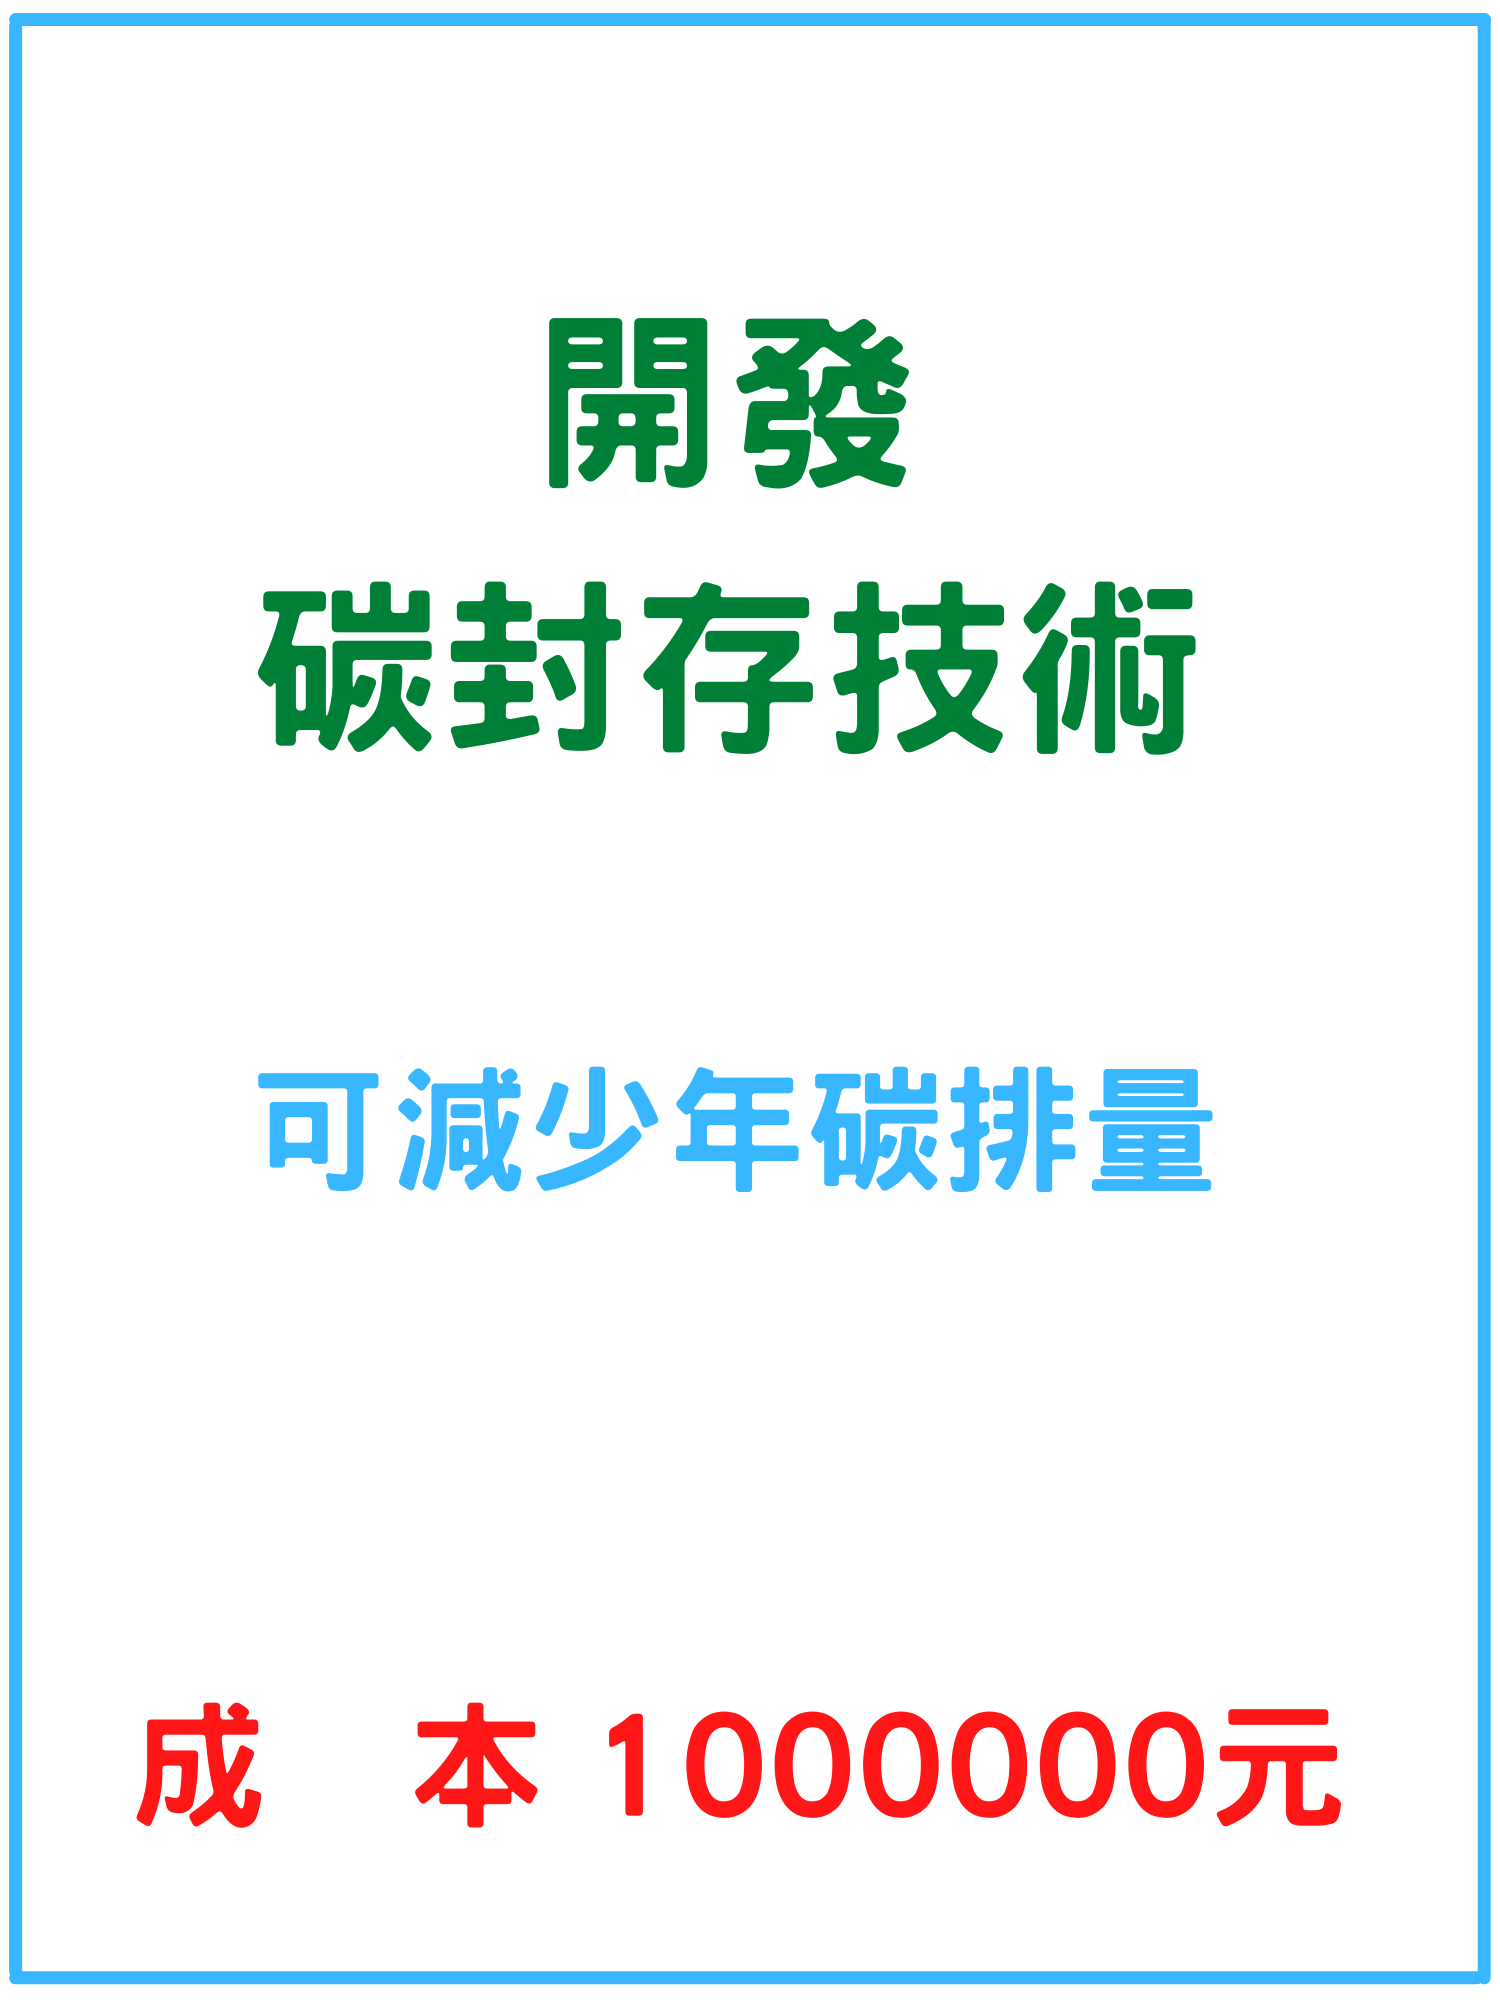
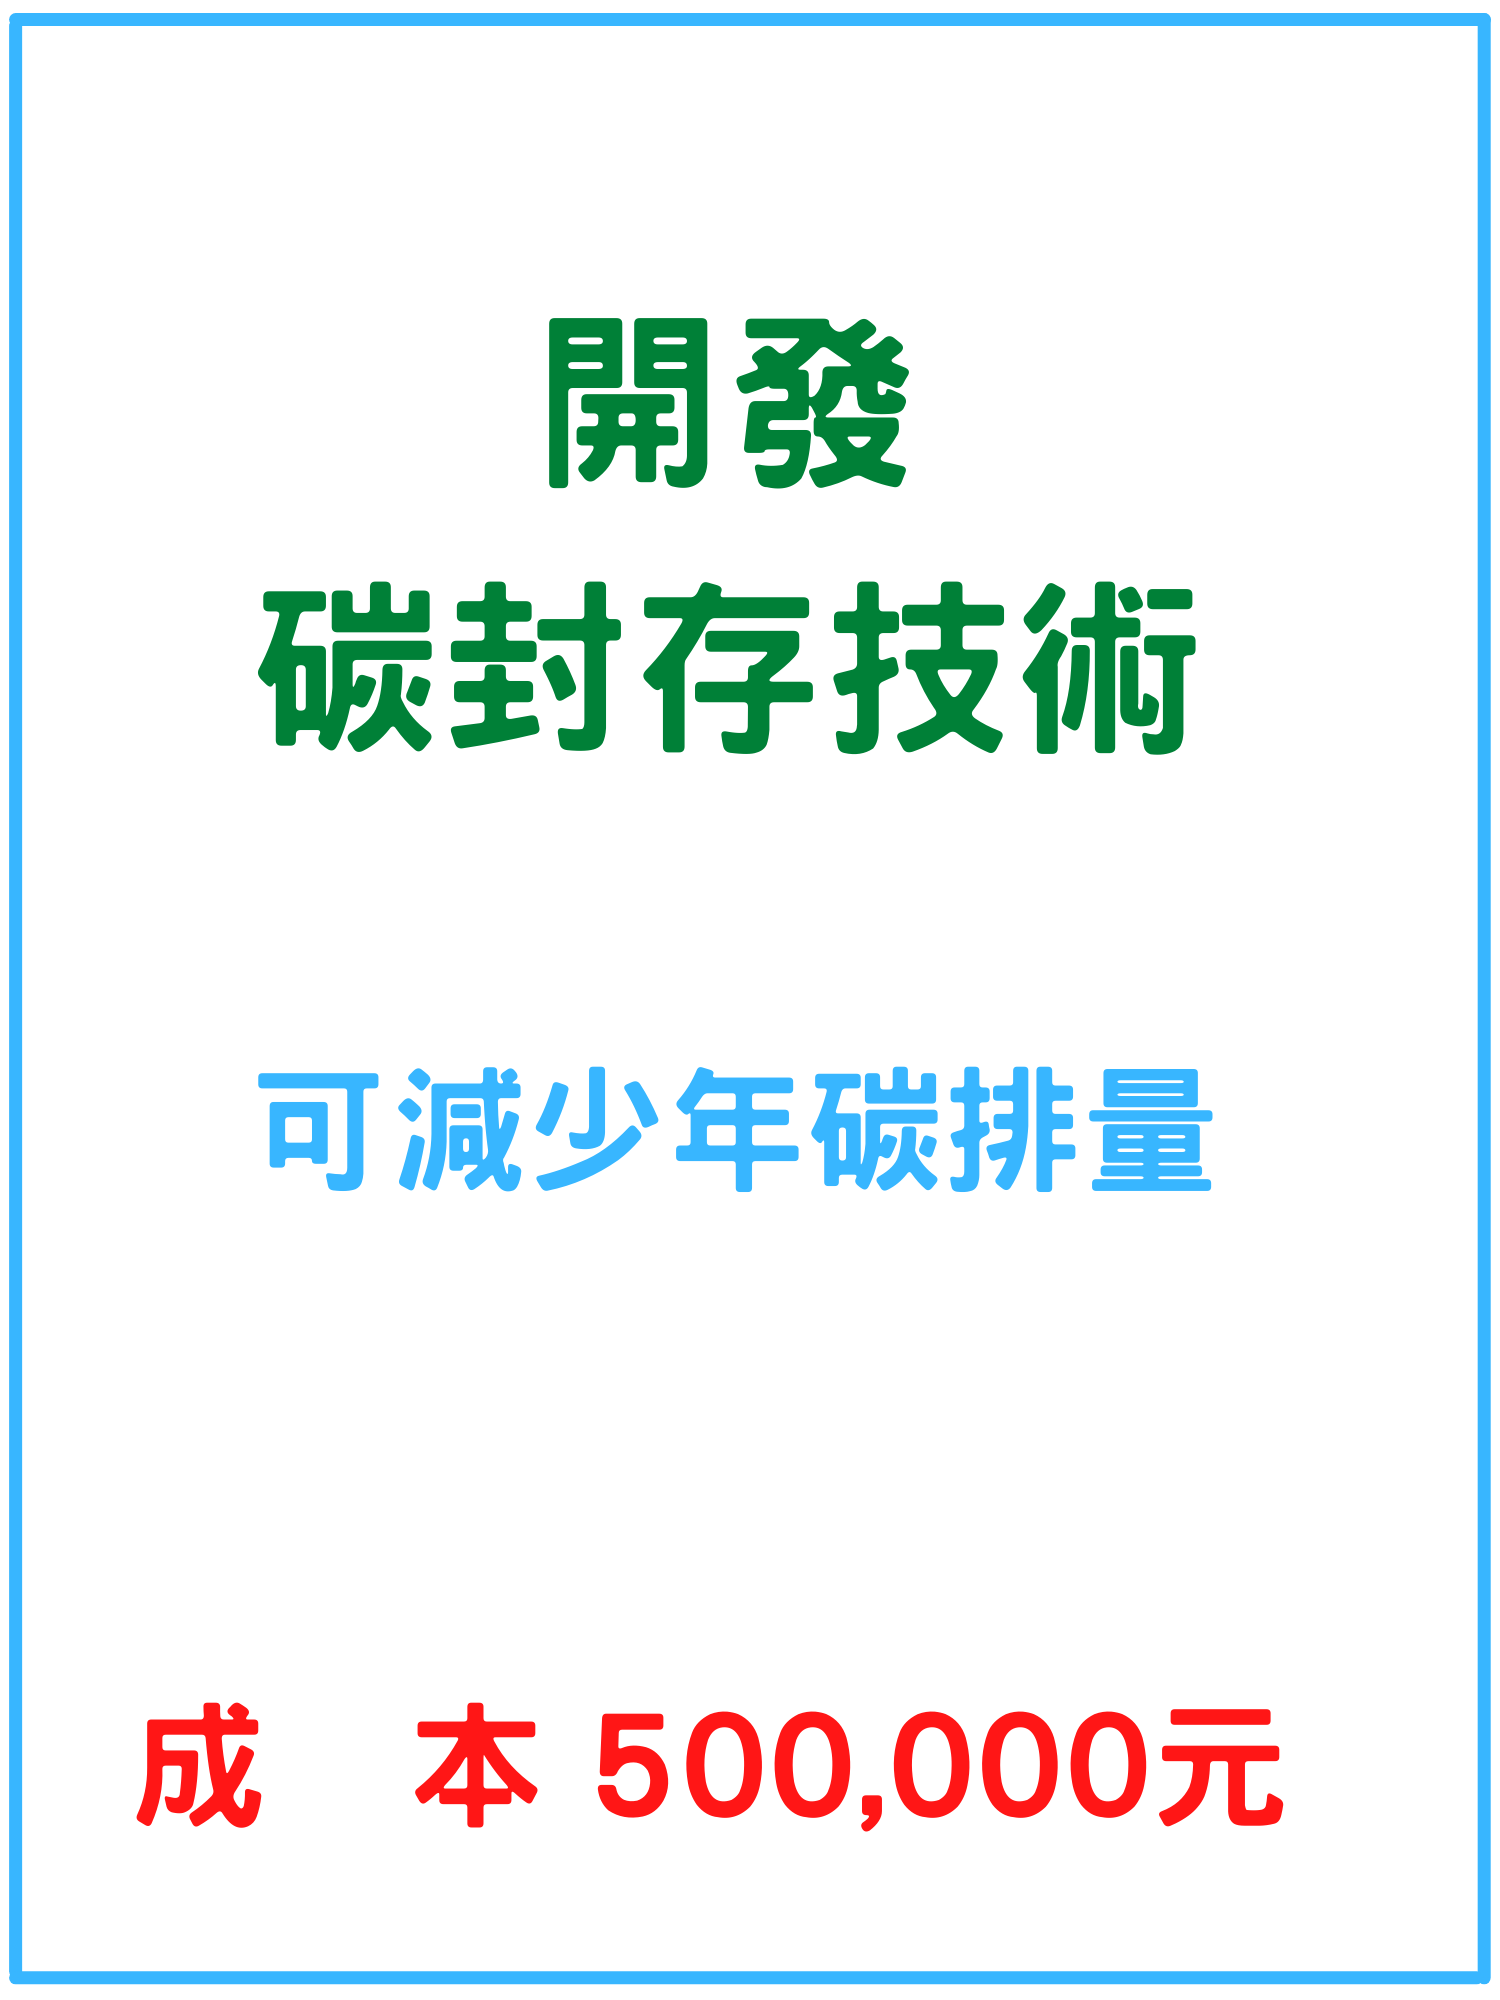
Add files via upload

Changed region(s): [[0.552, 0.837, 0.8893, 0.93], [0.3987, 0.837, 0.46, 0.93]]

diff --git a/index.html b/index.html
@@ -595,9 +595,9 @@ function png16(){
 
 function png17(){
 
-	if(totalMoney>=500000){
+	if(totalMoney>=300000){
 
-		totalMoney=totalMoney-500000;
+		totalMoney=totalMoney-300000;
 
        document.getElementById("oldoption").style.display='none';
        document.getElementById("png17").style.display='none';
@@ -619,9 +619,9 @@ function png17(){
 
 function png18(){
 
-	if(totalMoney>=1000000){
+	if(totalMoney>=500000){
 
-		totalMoney=totalMoney-1000000;
+		totalMoney=totalMoney-500000;
 		document.getElementById("totalMoney").innerHTML=totalMoney+" 元";
 
 
@@ -827,9 +827,9 @@ function png26(){
 
 function png27(){
 
-   if(totalMoney>=1000000){
+   if(totalMoney>=500000){
 
-   	totalMoney=totalMoney-1000000;
+   	totalMoney=totalMoney-500000;
    	annualcarbonEmission=annualcarbonEmission-2000;
 
    	 alert("已進行碳封存，每年碳排放將減少2000公斤");
